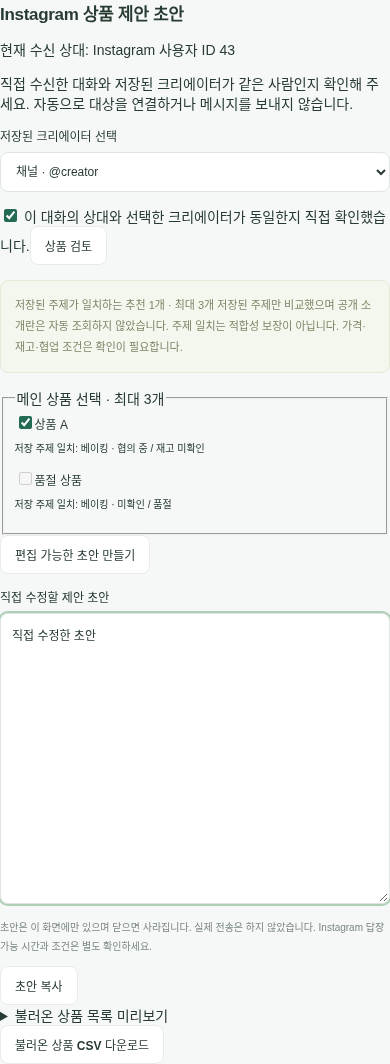
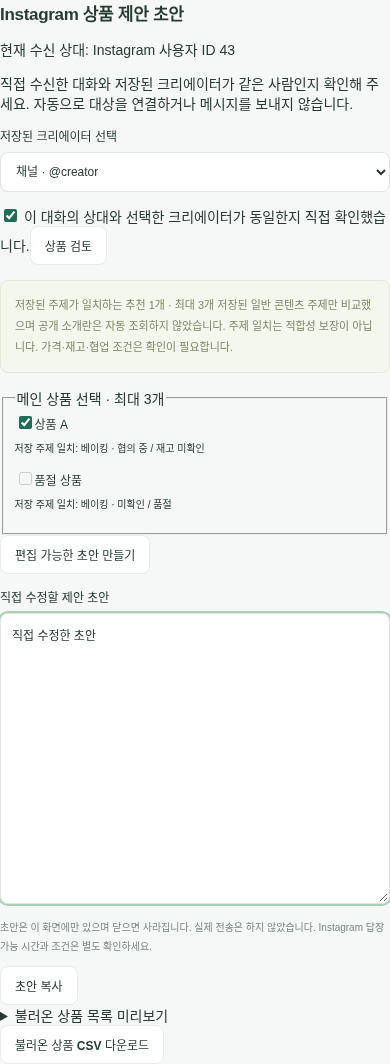
Limit prototype ranking to general public topics

Changed region(s): [[0.0308, 0.2791, 0.9538, 0.3412]]

diff --git a/public/workspace/app.js b/public/workspace/app.js
@@ -46,8 +46,8 @@ ${T}`}var q=class extends Error{constructor({message:e,code:r,cause:s,name:a}){v
 ${N.body}
 
 \uCCA8\uBD80: ${N.attachments.map(a=>a.name+" ("+a.size+" bytes)").join(", ")||"\uC5C6\uC74C"}`)}</div><p class="fine">15\uBD84 \uB0B4 \uC2B9\uC778\uD574\uC57C \uD569\uB2C8\uB2E4. \uC218\uC815\uD558\uBA74 \uB2E4\uC2DC \uBBF8\uB9AC\uBCF4\uAE30\uB97C \uB9CC\uB4DC\uC138\uC694. \uC608\uC57D \uBA54\uC77C\uC740 \uC608\uC57D \uC2DC\uAC01 \uC774\uD6C4 \uC2E4\uD589\uAE30\uAC00 \uD655\uC778\uD560 \uB54C \uCC98\uB9AC\uB429\uB2C8\uB2E4(\uCD5C\uB300 \uC57D 5\uBD84 \uAC04\uACA9).</p><label class="field"><span><input id="send-approved" type="checkbox"> \uC704 \uC218\uC2E0\uC790\xB7\uB0B4\uC6A9\xB7\uC870\uAC74 \uBC84\uC804\xB7\uCCA8\uBD80\uD30C\uC77C\uC744 \uD655\uC778\uD558\uACE0 \uC2B9\uC778\uD569\uB2C8\uB2E4.</span></label>${N.channel==="manual_dm"?'<label class="field"><span><input id="manually-sent" type="checkbox"> Instagram\uC5D0\uC11C \uC9C1\uC811 \uBC1C\uC1A1\uC744 \uC644\uB8CC\uD588\uC2B5\uB2C8\uB2E4.</span></label>':""}<div class="actions">${N.channel==="email"?`<label class="field">\uC608\uC57D \uC2DC\uAC04 (\uAE30\uAE30 \uC2DC\uAC04 \uAE30\uC900)<input id="schedule-at" type="datetime-local"></label>${k("\uC2B9\uC778\uD55C \uB0B4\uC6A9 \uC608\uC57D \uC790\uB3D9 \uBC1C\uC1A1","schedule")}`:""}${k("\uBB38\uAD6C \uBCF5\uC0AC","copy-preview")}${k(N.channel==="manual_dm"?"\uC218\uB3D9 \uBC1C\uC1A1 \uACB0\uACFC \uAE30\uB85D":"\uC2B9\uC778\uD55C \uB0B4\uC6A9 \uC2E4\uC81C \uBC1C\uC1A1","dispatch","",!0)}</div><div class="notice">${N.channel==="email"&&!he.gmail.enabled?"\uD604\uC7AC \uC2E4\uC81C \uBA54\uC77C \uBC1C\uC1A1\uC740 \uC11C\uBC84\uC5D0\uC11C \uAEBC\uC838 \uC788\uC2B5\uB2C8\uB2E4. ":""}\uC811\uC218\xB7\uC804\uB2EC\xB7\uC5F4\uB78C \uC0C1\uD0DC\uB97C \uD63C\uB3D9\uD558\uC9C0 \uC54A\uC2B5\uB2C8\uB2E4. \uC790\uB3D9 \uC7AC\uC2DC\uB3C4\uB294 \uD558\uC9C0 \uC54A\uC2B5\uB2C8\uB2E4.</div>`,m("#preview-area").scrollIntoView({block:"nearest",behavior:"smooth"})}var X=null,me=!1;function cu(t){try{let e=new URL(String(t||""));return e.protocol==="https:"&&!e.username&&!e.password?e.toString():""}catch{return""}}function uu(t){let e=String(t??"").replace(/\r\n?/g,`
-`);return/^[\s]*[=+\-@\t\r]/.test(e)&&(e="'"+e),'"'+e.replace(/"/g,'""')+'"'}function du(t){return t.soldOut===!0||t.availability==="sold_out"||t.stock===0?"\uD488\uC808":/품절/.test(String(t.sourceNote||"")+" "+String(t.note||""))?"\uD488\uC808 \uAD00\uB828 \uAE30\uB85D \xB7 \uC7AC\uD655\uC778 \uD544\uC694":typeof t.stock=="number"&&Number.isFinite(t.stock)&&t.stock>0?"\uAE30\uB85D\uC0C1 \uC7AC\uACE0 \uC788\uC74C \xB7 \uC7AC\uD655\uC778":"\uC7AC\uACE0 \uBBF8\uD655\uC778"}function hu(t){let e=t.priceProvisional===!0||/(임시|미확정|협의)/.test(String(t.priceStatus||""))||/(임시.{0,12}(공구가|가격)|(공구가|가격).{0,12}임시|소비자가.{0,12}(대체|임시))/.test(String(t.sourceNote||"")+" "+String(t.note||""));return t.state==="\uD655\uC815"&&(t.priceConfirmed===!0||t.priceStatus==="confirmed")&&!e&&typeof t.price=="number"&&Number.isFinite(t.price)&&t.price>=0?String(t.price)+"\uC6D0 \xB7 \uC800\uC7A5\uB41C \uD655\uC815 \uC870\uAC74, \uC7AC\uD655\uC778":"\uACF5\uAD6C\uAC00 \uBBF8\uD655\uC778"}function pu(t){return/(암|당뇨|질환|환자|진단|투병|치료|복용|임신|불임|장애|정신건강)/i.test(t)}function fu(t,e){let r=new Set((Array.isArray(e?.topics)?e.topics:[]).filter(a=>typeof a=="string").map(a=>a.trim().toLocaleLowerCase()).filter(a=>a.length>=2&&a.length<=60&&!pu(a))),s=new Map;for(let a of Array.isArray(t)?t:[]){if(!a||typeof a.id!="string"||!a.id||typeof a.name!="string"||!a.name.trim())continue;let n=String(a.productName||a.name).trim();if(!n)continue;let i=JSON.stringify([String(a.brand||""),n]),o=[...new Set((Array.isArray(a.topics)?a.topics:[]).filter(d=>typeof d=="string").map(d=>d.trim()).filter(d=>r.has(d.toLocaleLowerCase())))],l={id:a.id,name:a.name,product:n,brand:String(a.brand||""),category:typeof a.category=="string"&&a.category?a.category:"\uBBF8\uD655\uC778",state:["\uD611\uC758 \uC911","\uD655\uC815"].includes(a.state)?a.state:"\uBBF8\uD655\uC778",retail:typeof a.retail=="number"&&Number.isFinite(a.retail)&&a.retail>=0?String(a.retail)+"\uC6D0":"\uBBF8\uD655\uC778",price:hu(a),stock:du(a),options:[...a.productName&&a.name!==a.productName?[a.name]:[],...(Array.isArray(a.options)?a.options:[]).map(d=>typeof d?.name=="string"?d.name:"")].filter(Boolean).join(" / ")||"\uC635\uC158 \uD655\uC778 \uD544\uC694",link:cu(a.productUrl),reason:o.length?"\uC800\uC7A5 \uC8FC\uC81C \uC77C\uCE58: "+o.join(", "):"\uC8FC\uC81C \uC77C\uCE58 \uADFC\uAC70 \uC5C6\uC74C \xB7 \uC9C1\uC811 \uAC80\uD1A0",score:o.length};s.has(i)||s.set(i,{id:a.id,product:n,items:[],score:0});let c=s.get(i);c.items.push(l),c.score=Math.max(c.score,l.score)}return[...s.values()].map(a=>{let n=a.items.filter(i=>!i.stock.startsWith("\uD488\uC808"));return{...a,available:n.length>0,score:Math.max(0,...n.map(i=>i.score))}}).sort((a,n)=>n.score-a.score||a.product.localeCompare(n.product,"ko"))}function mu(t){return"\uFEFF"+[["\uC0C1\uD488\uBA85","\uBD84\uB958","\uCD94\uCC9C \uADFC\uAC70","\uACF5\uAC1C \uC18C\uBE44\uC790\uAC00","\uD655\uC815 \uACF5\uAD6C\uAC00 \uB610\uB294 \uD611\uC758 \uC0C1\uD0DC","\uC7AC\uACE0 \uC0C1\uD0DC","\uC635\uC158 \uC0C1\uD0DC","\uB4F1\uB85D \uC81C\uD488 \uB9C1\uD06C"],...t.flatMap(s=>s.items.map(a=>[a.product,a.category,a.reason,a.retail,a.state+" \xB7 "+a.price,a.stock,a.options,a.link]))].map(s=>s.map(uu).join(",")).join(`\r
-`)}function co(){return!!X&&X.owner===C&&location.hash==="#inbox"&&X.threadId===oe&&!!Fe.find(t=>t.id===oe&&t.instagramOfficial&&(t.messages||[]).some(fs))}function Ca(){if(!co()||!X.creator)return!1;let t=m("#instagram-prototype-creator");if(!t)return!1;let e=new FormData(t);return e.has("verified")&&e.get("creator")===X.creator.id}function gu(){if(!Ca()||!X.draftSelection)return!1;let t=m("#instagram-prototype-draft");return t?JSON.stringify(new FormData(t).getAll("product").map(String).sort())===X.draftSelection:!1}function yu(){if(I)return _("\uD3B8\uC9D1 \uB0B4\uC6A9\uC744 \uC800\uC7A5\uD558\uAC70\uB098 \uCDE8\uC18C\uD55C \uB4A4 \uCD08\uC548\uC744 \uC900\uBE44\uD558\uC138\uC694.");let t=Fe.find(r=>r.id===oe&&r.instagramOfficial&&(r.messages||[]).some(fs));if(!t)return _("\uBA3C\uC800 \uC2E4\uC81C \uC218\uC2E0 Instagram \uB300\uD654\uB97C \uC120\uD0DD\uD558\uC138\uC694.");let e=E.candidates.filter(r=>r.kind==="\uD06C\uB9AC\uC5D0\uC774\uD130");X={owner:C,threadId:t.id,creator:null,groups:[]},me=!1,K("<h2>Instagram \uC0C1\uD488 \uC81C\uC548 \uCD08\uC548</h2><p>\uD604\uC7AC \uC218\uC2E0 \uC0C1\uB300: "+u(ms(t))+'</p><p>\uC9C1\uC811 \uC218\uC2E0\uD55C \uB300\uD654\uC640 \uC800\uC7A5\uB41C \uD06C\uB9AC\uC5D0\uC774\uD130\uAC00 \uAC19\uC740 \uC0AC\uB78C\uC778\uC9C0 \uD655\uC778\uD574 \uC8FC\uC138\uC694. \uC790\uB3D9\uC73C\uB85C \uB300\uC0C1\uC744 \uC5F0\uACB0\uD558\uAC70\uB098 \uBA54\uC2DC\uC9C0\uB97C \uBCF4\uB0B4\uC9C0 \uC54A\uC2B5\uB2C8\uB2E4.</p><form id="instagram-prototype-creator"><label class="field">\uC800\uC7A5\uB41C \uD06C\uB9AC\uC5D0\uC774\uD130 \uC120\uD0DD<select name="creator" required><option value="">\uC9C1\uC811 \uC120\uD0DD</option>'+e.map(r=>'<option value="'+u(r.id)+'">'+u(r.name||"\uC774\uB984 \uBBF8\uD655\uC778")+(r.handle?" \xB7 @"+u(r.handle):"")+"</option>").join("")+'</select></label><label><input type="checkbox" name="verified" required> \uC774 \uB300\uD654\uC758 \uC0C1\uB300\uC640 \uC120\uD0DD\uD55C \uD06C\uB9AC\uC5D0\uC774\uD130\uAC00 \uB3D9\uC77C\uD55C\uC9C0 \uC9C1\uC811 \uD655\uC778\uD588\uC2B5\uB2C8\uB2E4.</label><button type="submit">\uC0C1\uD488 \uAC80\uD1A0</button></form>'+(e.length?"":'<p class="notice">\uC120\uD0DD\uD560 \uC800\uC7A5 \uD06C\uB9AC\uC5D0\uC774\uD130\uAC00 \uC5C6\uC2B5\uB2C8\uB2E4. \uD655\uC778\uB41C \uD06C\uB9AC\uC5D0\uC774\uD130\uB97C \uBA3C\uC800 \uB4F1\uB85D\uD558\uC138\uC694.</p>')+'<div id="instagram-prototype-result"></div>')}function vu(t){if(!co())throw Error("\uD604\uC7AC \uC218\uC2E0 \uB300\uD654\uB97C \uB2E4\uC2DC \uD655\uC778\uD558\uC138\uC694.");if(me&&!window.confirm("\uC791\uC131 \uC911\uC778 \uCD08\uC548\uC744 \uBC14\uAFB8\uACE0 \uC0C1\uD488\uC744 \uB2E4\uC2DC \uAC80\uD1A0\uD560\uAE4C\uC694?"))return;me=!1;let e=new FormData(t);if(!e.has("verified"))throw Error("\uB300\uD654 \uC0C1\uB300\uC640 \uD06C\uB9AC\uC5D0\uC774\uD130\uAC00 \uAC19\uC740\uC9C0 \uC9C1\uC811 \uD655\uC778\uD558\uC138\uC694.");let r=E.candidates.find(o=>o.id===e.get("creator")&&o.kind==="\uD06C\uB9AC\uC5D0\uC774\uD130");if(!r)throw Error("\uC800\uC7A5\uB41C \uD06C\uB9AC\uC5D0\uC774\uD130\uB97C \uC120\uD0DD\uD558\uC138\uC694.");let s=fu(E.deals,r),a=s.filter(o=>o.available&&o.score>0).slice(0,3),n=new Set(a.map(o=>o.id));X.creator=r,X.groups=s,X.draftSelection=null;let i=a.length?"\uC800\uC7A5\uB41C \uC8FC\uC81C\uAC00 \uC77C\uCE58\uD558\uB294 \uCD94\uCC9C "+a.length+"\uAC1C \xB7 \uCD5C\uB300 3\uAC1C":"\uC77C\uCE58 \uADFC\uAC70\uAC00 \uC5C6\uC5B4 \uCD94\uCC9C\uC744 \uB9CC\uB4E4\uC9C0 \uC54A\uC558\uC2B5\uB2C8\uB2E4. \uC544\uB798 \uAC80\uD1A0 \uD6C4\uBCF4\uB97C \uC9C1\uC811 \uACE0\uB974\uC138\uC694.";m("#instagram-prototype-result").innerHTML='<p class="notice">'+u(i)+' \uC800\uC7A5\uB41C \uC8FC\uC81C\uB9CC \uBE44\uAD50\uD588\uC73C\uBA70 \uACF5\uAC1C \uC18C\uAC1C\uB780\uC740 \uC790\uB3D9 \uC870\uD68C\uD558\uC9C0 \uC54A\uC558\uC2B5\uB2C8\uB2E4. \uC8FC\uC81C \uC77C\uCE58\uB294 \uC801\uD569\uC131 \uBCF4\uC7A5\uC774 \uC544\uB2D9\uB2C8\uB2E4. \uAC00\uACA9\xB7\uC7AC\uACE0\xB7\uD611\uC5C5 \uC870\uAC74\uC740 \uD655\uC778\uC774 \uD544\uC694\uD569\uB2C8\uB2E4.</p><form id="instagram-prototype-draft"><fieldset><legend>\uBA54\uC778 \uC0C1\uD488 \uC120\uD0DD \xB7 \uCD5C\uB300 3\uAC1C</legend>'+s.map(o=>{let l=o.items.find(d=>!d.stock.startsWith("\uD488\uC808")&&d.score===o.score)||o.items[0],c=!o.available;return'<label class="field"><span><input type="checkbox" name="product" value="'+u(o.id)+'" '+(n.has(o.id)?"checked ":"")+(c?"disabled ":"")+">"+u(o.product)+"</span><small>"+u(l.reason)+" \xB7 "+u(o.items.map(d=>d.state+" / "+d.stock).join(" ; "))+"</small></label>"}).join("")+'</fieldset><button type="submit">\uD3B8\uC9D1 \uAC00\uB2A5\uD55C \uCD08\uC548 \uB9CC\uB4E4\uAE30</button></form><div id="instagram-prototype-draft-output"></div><details><summary>\uBD88\uB7EC\uC628 \uC0C1\uD488 \uBAA9\uB85D \uBBF8\uB9AC\uBCF4\uAE30</summary><p>\uD604\uC7AC \uD654\uBA74\uC5D0 \uBD88\uB7EC\uC628 \uC800\uC7A5 \uC0C1\uD488\uB9CC \uD3EC\uD568\uD558\uBA70 \uC77C\uBD80 \uC0C1\uD488\uC774 \uBE60\uC9C8 \uC218 \uC788\uC2B5\uB2C8\uB2E4. \uC870\uAC74\uC740 \uB2E4\uC2DC \uD655\uC778\uD574\uC57C \uD558\uBA70 \uC678\uBD80 \uC2DC\uD2B8\uB294 \uC0DD\uC131\uD558\uC9C0 \uC54A\uC2B5\uB2C8\uB2E4.</p><div class="table-wrap"><table><thead><tr><th>\uC0C1\uD488</th><th>\uBD84\uB958</th><th>\uADFC\uAC70</th><th>\uC18C\uBE44\uC790\uAC00</th><th>\uACF5\uAD6C \uC870\uAC74</th><th>\uC7AC\uACE0\xB7\uC635\uC158</th><th>\uB4F1\uB85D \uB9C1\uD06C</th></tr></thead><tbody>'+s.flatMap(o=>o.items.map(l=>"<tr><td>"+u(l.product)+"</td><td>"+u(l.category)+"</td><td>"+u(l.reason)+"</td><td>"+u(l.retail)+"</td><td>"+u(l.state+" \xB7 "+l.price)+"</td><td>"+u(l.stock+" \xB7 "+l.options)+"</td><td>"+(l.link?'<a href="'+u(l.link)+'" target="_blank" rel="noopener noreferrer">\uC81C\uD488 \uB9C1\uD06C \u2197</a>':"\uBBF8\uD655\uC778")+"</td></tr>")).join("")+'</tbody></table></div></details><button type="button" data-action="instagram-prototype-csv">\uBD88\uB7EC\uC628 \uC0C1\uD488 CSV \uB2E4\uC6B4\uB85C\uB4DC</button>'}function bu(t){if(!Ca()||!X.creator)throw Error("\uB300\uD654\uC640 \uD06C\uB9AC\uC5D0\uC774\uD130\uB97C \uB2E4\uC2DC \uD655\uC778\uD558\uC138\uC694.");if(me&&!window.confirm("\uC791\uC131 \uC911\uC778 \uCD08\uC548\uC744 \uC0C8\uB85C \uB9CC\uB4E4\uAE4C\uC694?"))return;let e=new FormData(t).getAll("product");if(!e.length||e.length>3||new Set(e).size!==e.length)throw Error("\uD488\uC808\uC774 \uC544\uB2CC \uC0C1\uD488\uC744 1~3\uAC1C \uC120\uD0DD\uD558\uC138\uC694.");let r=e.map(n=>X.groups.find(i=>i.id===n&&i.available));if(r.some(n=>!n))throw Error("\uC120\uD0DD\uD55C \uC0C1\uD488 \uC0C1\uD0DC\uB97C \uB2E4\uC2DC \uD655\uC778\uD558\uC138\uC694.");me=!1,X.draftSelection=JSON.stringify(e.map(String).sort());let s=String(X.creator.name||"\uD06C\uB9AC\uC5D0\uC774\uD130").trim(),a="\uC548\uB155\uD558\uC138\uC694, "+s+`\uB2D8.
+`);return/^[\s]*[=+\-@\t\r]/.test(e)&&(e="'"+e),'"'+e.replace(/"/g,'""')+'"'}function du(t){return t.soldOut===!0||t.availability==="sold_out"||t.stock===0?"\uD488\uC808":/품절/.test(String(t.sourceNote||"")+" "+String(t.note||""))?"\uD488\uC808 \uAD00\uB828 \uAE30\uB85D \xB7 \uC7AC\uD655\uC778 \uD544\uC694":typeof t.stock=="number"&&Number.isFinite(t.stock)&&t.stock>0?"\uAE30\uB85D\uC0C1 \uC7AC\uACE0 \uC788\uC74C \xB7 \uC7AC\uD655\uC778":"\uC7AC\uACE0 \uBBF8\uD655\uC778"}function hu(t){let e=t.priceProvisional===!0||/(임시|미확정|협의)/.test(String(t.priceStatus||""))||/(임시.{0,12}(공구가|가격)|(공구가|가격).{0,12}임시|소비자가.{0,12}(대체|임시))/.test(String(t.sourceNote||"")+" "+String(t.note||""));return t.state==="\uD655\uC815"&&(t.priceConfirmed===!0||t.priceStatus==="confirmed")&&!e&&typeof t.price=="number"&&Number.isFinite(t.price)&&t.price>=0?String(t.price)+"\uC6D0 \xB7 \uC800\uC7A5\uB41C \uD655\uC815 \uC870\uAC74, \uC7AC\uD655\uC778":"\uACF5\uAD6C\uAC00 \uBBF8\uD655\uC778"}function pu(t){return!new Set(["\uBCA0\uC774\uD0B9","\uC694\uB9AC","\uD478\uB4DC","\uCEE4\uD53C","\uC2DD\uC74C\uB8CC","\uCE74\uD398","\uB514\uC800\uD2B8","\uB77C\uC774\uD504\uC2A4\uD0C0\uC77C","\uC77C\uC0C1","\uD328\uC158","\uBDF0\uD2F0","\uC6B4\uB3D9","\uD53C\uD2B8\uB2C8\uC2A4","\uC6F0\uB2C8\uC2A4","\uB9AC\uBE59","\uC778\uD14C\uB9AC\uC5B4","\uC721\uC544","\uC5EC\uD589","\uBC18\uB824\uB3D9\uBB3C","\uCEA0\uD551","\uC544\uC6C3\uB3C4\uC5B4","\uC0AC\uC9C4","\uB3C5\uC11C","\uC790\uAE30\uACC4\uBC1C","\uCDE8\uBBF8","\uD648\uCE74\uD398"]).has(t)}function fu(t,e){let r=new Set((Array.isArray(e?.topics)?e.topics:[]).filter(a=>typeof a=="string").map(a=>a.trim().toLocaleLowerCase()).filter(a=>a.length>=2&&a.length<=60&&!pu(a))),s=new Map;for(let a of Array.isArray(t)?t:[]){if(!a||typeof a.id!="string"||!a.id||typeof a.name!="string"||!a.name.trim())continue;let n=String(a.productName||a.name).trim();if(!n)continue;let i=JSON.stringify([String(a.brand||""),n]),o=[...new Set((Array.isArray(a.topics)?a.topics:[]).filter(d=>typeof d=="string").map(d=>d.trim()).filter(d=>r.has(d.toLocaleLowerCase())))],l={id:a.id,name:a.name,product:n,brand:String(a.brand||""),category:typeof a.category=="string"&&a.category?a.category:"\uBBF8\uD655\uC778",state:["\uD611\uC758 \uC911","\uD655\uC815"].includes(a.state)?a.state:"\uBBF8\uD655\uC778",retail:typeof a.retail=="number"&&Number.isFinite(a.retail)&&a.retail>=0?String(a.retail)+"\uC6D0":"\uBBF8\uD655\uC778",price:hu(a),stock:du(a),options:[...a.productName&&a.name!==a.productName?[a.name]:[],...(Array.isArray(a.options)?a.options:[]).map(d=>typeof d?.name=="string"?d.name:"")].filter(Boolean).join(" / ")||"\uC635\uC158 \uD655\uC778 \uD544\uC694",link:cu(a.productUrl),reason:o.length?"\uC800\uC7A5 \uC8FC\uC81C \uC77C\uCE58: "+o.join(", "):"\uC8FC\uC81C \uC77C\uCE58 \uADFC\uAC70 \uC5C6\uC74C \xB7 \uC9C1\uC811 \uAC80\uD1A0",score:o.length};s.has(i)||s.set(i,{id:a.id,product:n,items:[],score:0});let c=s.get(i);c.items.push(l),c.score=Math.max(c.score,l.score)}return[...s.values()].map(a=>{let n=a.items.filter(i=>!i.stock.startsWith("\uD488\uC808"));return{...a,available:n.length>0,score:Math.max(0,...n.map(i=>i.score))}}).sort((a,n)=>n.score-a.score||a.product.localeCompare(n.product,"ko"))}function mu(t){return"\uFEFF"+[["\uC0C1\uD488\uBA85","\uBD84\uB958","\uCD94\uCC9C \uADFC\uAC70","\uACF5\uAC1C \uC18C\uBE44\uC790\uAC00","\uD655\uC815 \uACF5\uAD6C\uAC00 \uB610\uB294 \uD611\uC758 \uC0C1\uD0DC","\uC7AC\uACE0 \uC0C1\uD0DC","\uC635\uC158 \uC0C1\uD0DC","\uB4F1\uB85D \uC81C\uD488 \uB9C1\uD06C"],...t.flatMap(s=>s.items.map(a=>[a.product,a.category,a.reason,a.retail,a.state+" \xB7 "+a.price,a.stock,a.options,a.link]))].map(s=>s.map(uu).join(",")).join(`\r
+`)}function co(){return!!X&&X.owner===C&&location.hash==="#inbox"&&X.threadId===oe&&!!Fe.find(t=>t.id===oe&&t.instagramOfficial&&(t.messages||[]).some(fs))}function Ca(){if(!co()||!X.creator)return!1;let t=m("#instagram-prototype-creator");if(!t)return!1;let e=new FormData(t);return e.has("verified")&&e.get("creator")===X.creator.id}function gu(){if(!Ca()||!X.draftSelection)return!1;let t=m("#instagram-prototype-draft");return t?JSON.stringify(new FormData(t).getAll("product").map(String).sort())===X.draftSelection:!1}function yu(){if(I)return _("\uD3B8\uC9D1 \uB0B4\uC6A9\uC744 \uC800\uC7A5\uD558\uAC70\uB098 \uCDE8\uC18C\uD55C \uB4A4 \uCD08\uC548\uC744 \uC900\uBE44\uD558\uC138\uC694.");let t=Fe.find(r=>r.id===oe&&r.instagramOfficial&&(r.messages||[]).some(fs));if(!t)return _("\uBA3C\uC800 \uC2E4\uC81C \uC218\uC2E0 Instagram \uB300\uD654\uB97C \uC120\uD0DD\uD558\uC138\uC694.");let e=E.candidates.filter(r=>r.kind==="\uD06C\uB9AC\uC5D0\uC774\uD130");X={owner:C,threadId:t.id,creator:null,groups:[]},me=!1,K("<h2>Instagram \uC0C1\uD488 \uC81C\uC548 \uCD08\uC548</h2><p>\uD604\uC7AC \uC218\uC2E0 \uC0C1\uB300: "+u(ms(t))+'</p><p>\uC9C1\uC811 \uC218\uC2E0\uD55C \uB300\uD654\uC640 \uC800\uC7A5\uB41C \uD06C\uB9AC\uC5D0\uC774\uD130\uAC00 \uAC19\uC740 \uC0AC\uB78C\uC778\uC9C0 \uD655\uC778\uD574 \uC8FC\uC138\uC694. \uC790\uB3D9\uC73C\uB85C \uB300\uC0C1\uC744 \uC5F0\uACB0\uD558\uAC70\uB098 \uBA54\uC2DC\uC9C0\uB97C \uBCF4\uB0B4\uC9C0 \uC54A\uC2B5\uB2C8\uB2E4.</p><form id="instagram-prototype-creator"><label class="field">\uC800\uC7A5\uB41C \uD06C\uB9AC\uC5D0\uC774\uD130 \uC120\uD0DD<select name="creator" required><option value="">\uC9C1\uC811 \uC120\uD0DD</option>'+e.map(r=>'<option value="'+u(r.id)+'">'+u(r.name||"\uC774\uB984 \uBBF8\uD655\uC778")+(r.handle?" \xB7 @"+u(r.handle):"")+"</option>").join("")+'</select></label><label><input type="checkbox" name="verified" required> \uC774 \uB300\uD654\uC758 \uC0C1\uB300\uC640 \uC120\uD0DD\uD55C \uD06C\uB9AC\uC5D0\uC774\uD130\uAC00 \uB3D9\uC77C\uD55C\uC9C0 \uC9C1\uC811 \uD655\uC778\uD588\uC2B5\uB2C8\uB2E4.</label><button type="submit">\uC0C1\uD488 \uAC80\uD1A0</button></form>'+(e.length?"":'<p class="notice">\uC120\uD0DD\uD560 \uC800\uC7A5 \uD06C\uB9AC\uC5D0\uC774\uD130\uAC00 \uC5C6\uC2B5\uB2C8\uB2E4. \uD655\uC778\uB41C \uD06C\uB9AC\uC5D0\uC774\uD130\uB97C \uBA3C\uC800 \uB4F1\uB85D\uD558\uC138\uC694.</p>')+'<div id="instagram-prototype-result"></div>')}function vu(t){if(!co())throw Error("\uD604\uC7AC \uC218\uC2E0 \uB300\uD654\uB97C \uB2E4\uC2DC \uD655\uC778\uD558\uC138\uC694.");if(me&&!window.confirm("\uC791\uC131 \uC911\uC778 \uCD08\uC548\uC744 \uBC14\uAFB8\uACE0 \uC0C1\uD488\uC744 \uB2E4\uC2DC \uAC80\uD1A0\uD560\uAE4C\uC694?"))return;me=!1;let e=new FormData(t);if(!e.has("verified"))throw Error("\uB300\uD654 \uC0C1\uB300\uC640 \uD06C\uB9AC\uC5D0\uC774\uD130\uAC00 \uAC19\uC740\uC9C0 \uC9C1\uC811 \uD655\uC778\uD558\uC138\uC694.");let r=E.candidates.find(o=>o.id===e.get("creator")&&o.kind==="\uD06C\uB9AC\uC5D0\uC774\uD130");if(!r)throw Error("\uC800\uC7A5\uB41C \uD06C\uB9AC\uC5D0\uC774\uD130\uB97C \uC120\uD0DD\uD558\uC138\uC694.");let s=fu(E.deals,r),a=s.filter(o=>o.available&&o.score>0).slice(0,3),n=new Set(a.map(o=>o.id));X.creator=r,X.groups=s,X.draftSelection=null;let i=a.length?"\uC800\uC7A5\uB41C \uC8FC\uC81C\uAC00 \uC77C\uCE58\uD558\uB294 \uCD94\uCC9C "+a.length+"\uAC1C \xB7 \uCD5C\uB300 3\uAC1C":"\uC77C\uCE58 \uADFC\uAC70\uAC00 \uC5C6\uC5B4 \uCD94\uCC9C\uC744 \uB9CC\uB4E4\uC9C0 \uC54A\uC558\uC2B5\uB2C8\uB2E4. \uC544\uB798 \uAC80\uD1A0 \uD6C4\uBCF4\uB97C \uC9C1\uC811 \uACE0\uB974\uC138\uC694.";m("#instagram-prototype-result").innerHTML='<p class="notice">'+u(i)+' \uC800\uC7A5\uB41C \uC77C\uBC18 \uCF58\uD150\uCE20 \uC8FC\uC81C\uB9CC \uBE44\uAD50\uD588\uC73C\uBA70 \uACF5\uAC1C \uC18C\uAC1C\uB780\uC740 \uC790\uB3D9 \uC870\uD68C\uD558\uC9C0 \uC54A\uC558\uC2B5\uB2C8\uB2E4. \uC8FC\uC81C \uC77C\uCE58\uB294 \uC801\uD569\uC131 \uBCF4\uC7A5\uC774 \uC544\uB2D9\uB2C8\uB2E4. \uAC00\uACA9\xB7\uC7AC\uACE0\xB7\uD611\uC5C5 \uC870\uAC74\uC740 \uD655\uC778\uC774 \uD544\uC694\uD569\uB2C8\uB2E4.</p><form id="instagram-prototype-draft"><fieldset><legend>\uBA54\uC778 \uC0C1\uD488 \uC120\uD0DD \xB7 \uCD5C\uB300 3\uAC1C</legend>'+s.map(o=>{let l=o.items.find(d=>!d.stock.startsWith("\uD488\uC808")&&d.score===o.score)||o.items[0],c=!o.available;return'<label class="field"><span><input type="checkbox" name="product" value="'+u(o.id)+'" '+(n.has(o.id)?"checked ":"")+(c?"disabled ":"")+">"+u(o.product)+"</span><small>"+u(l.reason)+" \xB7 "+u(o.items.map(d=>d.state+" / "+d.stock).join(" ; "))+"</small></label>"}).join("")+'</fieldset><button type="submit">\uD3B8\uC9D1 \uAC00\uB2A5\uD55C \uCD08\uC548 \uB9CC\uB4E4\uAE30</button></form><div id="instagram-prototype-draft-output"></div><details><summary>\uBD88\uB7EC\uC628 \uC0C1\uD488 \uBAA9\uB85D \uBBF8\uB9AC\uBCF4\uAE30</summary><p>\uD604\uC7AC \uD654\uBA74\uC5D0 \uBD88\uB7EC\uC628 \uC800\uC7A5 \uC0C1\uD488\uB9CC \uD3EC\uD568\uD558\uBA70 \uC77C\uBD80 \uC0C1\uD488\uC774 \uBE60\uC9C8 \uC218 \uC788\uC2B5\uB2C8\uB2E4. \uC870\uAC74\uC740 \uB2E4\uC2DC \uD655\uC778\uD574\uC57C \uD558\uBA70 \uC678\uBD80 \uC2DC\uD2B8\uB294 \uC0DD\uC131\uD558\uC9C0 \uC54A\uC2B5\uB2C8\uB2E4.</p><div class="table-wrap"><table><thead><tr><th>\uC0C1\uD488</th><th>\uBD84\uB958</th><th>\uADFC\uAC70</th><th>\uC18C\uBE44\uC790\uAC00</th><th>\uACF5\uAD6C \uC870\uAC74</th><th>\uC7AC\uACE0\xB7\uC635\uC158</th><th>\uB4F1\uB85D \uB9C1\uD06C</th></tr></thead><tbody>'+s.flatMap(o=>o.items.map(l=>"<tr><td>"+u(l.product)+"</td><td>"+u(l.category)+"</td><td>"+u(l.reason)+"</td><td>"+u(l.retail)+"</td><td>"+u(l.state+" \xB7 "+l.price)+"</td><td>"+u(l.stock+" \xB7 "+l.options)+"</td><td>"+(l.link?'<a href="'+u(l.link)+'" target="_blank" rel="noopener noreferrer">\uC81C\uD488 \uB9C1\uD06C \u2197</a>':"\uBBF8\uD655\uC778")+"</td></tr>")).join("")+'</tbody></table></div></details><button type="button" data-action="instagram-prototype-csv">\uBD88\uB7EC\uC628 \uC0C1\uD488 CSV \uB2E4\uC6B4\uB85C\uB4DC</button>'}function bu(t){if(!Ca()||!X.creator)throw Error("\uB300\uD654\uC640 \uD06C\uB9AC\uC5D0\uC774\uD130\uB97C \uB2E4\uC2DC \uD655\uC778\uD558\uC138\uC694.");if(me&&!window.confirm("\uC791\uC131 \uC911\uC778 \uCD08\uC548\uC744 \uC0C8\uB85C \uB9CC\uB4E4\uAE4C\uC694?"))return;let e=new FormData(t).getAll("product");if(!e.length||e.length>3||new Set(e).size!==e.length)throw Error("\uD488\uC808\uC774 \uC544\uB2CC \uC0C1\uD488\uC744 1~3\uAC1C \uC120\uD0DD\uD558\uC138\uC694.");let r=e.map(n=>X.groups.find(i=>i.id===n&&i.available));if(r.some(n=>!n))throw Error("\uC120\uD0DD\uD55C \uC0C1\uD488 \uC0C1\uD0DC\uB97C \uB2E4\uC2DC \uD655\uC778\uD558\uC138\uC694.");me=!1,X.draftSelection=JSON.stringify(e.map(String).sort());let s=String(X.creator.name||"\uD06C\uB9AC\uC5D0\uC774\uD130").trim(),a="\uC548\uB155\uD558\uC138\uC694, "+s+`\uB2D8.
 
 \uACF5\uB3D9\uAD6C\uB9E4 \uD611\uC5C5\uC744 \uC81C\uC548\uB4DC\uB9AC\uACE0 \uC2F6\uC5B4 \uC5F0\uB77D\uB4DC\uB9BD\uB2C8\uB2E4. \uC6B0\uC120 \uC544\uB798 \uC0C1\uD488\uC744 \uAC80\uD1A0\uD574 \uC8FC\uC2DC\uBA74 \uC88B\uACA0\uC2B5\uB2C8\uB2E4.
 

diff --git a/private/ui/app.js b/private/ui/app.js
@@ -631,14 +631,14 @@ function prototypeSafeLink(value){try{const u=new URL(String(value||''));return 
 function prototypeCsvCell(value){let s=String(value??'').replace(/\r\n?/g,'\n');if(/^[\s]*[=+\-@\t\r]/.test(s))s="'"+s;return '"'+s.replace(/"/g,'""')+'"';}
 function prototypeDealStock(d){if(d.soldOut===true||d.availability==='sold_out'||d.stock===0)return '품절';if(/품절/.test(String(d.sourceNote||'')+' '+String(d.note||'')))return '품절 관련 기록 · 재확인 필요';if(typeof d.stock==='number'&&Number.isFinite(d.stock)&&d.stock>0)return '기록상 재고 있음 · 재확인';return '재고 미확인';}
 function prototypePrice(d){const temp=d.priceProvisional===true||/(임시|미확정|협의)/.test(String(d.priceStatus||''))||/(임시.{0,12}(공구가|가격)|(공구가|가격).{0,12}임시|소비자가.{0,12}(대체|임시))/.test(String(d.sourceNote||'')+' '+String(d.note||''));return d.state==='확정'&&(d.priceConfirmed===true||d.priceStatus==='confirmed')&&!temp&&typeof d.price==='number'&&Number.isFinite(d.price)&&d.price>=0?String(d.price)+'원 · 저장된 확정 조건, 재확인':'공구가 미확인';}
-function prototypeSensitiveTopic(value){return /(암|당뇨|질환|환자|진단|투병|치료|복용|임신|불임|장애|정신건강)/i.test(value);}
+function prototypeSensitiveTopic(value){return !new Set(['베이킹','요리','푸드','커피','식음료','카페','디저트','라이프스타일','일상','패션','뷰티','운동','피트니스','웰니스','리빙','인테리어','육아','여행','반려동물','캠핑','아웃도어','사진','독서','자기계발','취미','홈카페']).has(value);}
 function prototypeCatalog(deals,creator){const topics=new Set((Array.isArray(creator?.topics)?creator.topics:[]).filter(x=>typeof x==='string').map(x=>x.trim().toLocaleLowerCase()).filter(x=>x.length>=2&&x.length<=60&&!prototypeSensitiveTopic(x))),groups=new Map();for(const d of Array.isArray(deals)?deals:[]){if(!d||typeof d.id!=='string'||!d.id||typeof d.name!=='string'||!d.name.trim())continue;const product=String(d.productName||d.name).trim();if(!product)continue;const key=JSON.stringify([String(d.brand||''),product]),common=[...new Set((Array.isArray(d.topics)?d.topics:[]).filter(x=>typeof x==='string').map(x=>x.trim()).filter(x=>topics.has(x.toLocaleLowerCase())))],item={id:d.id,name:d.name,product,brand:String(d.brand||''),category:typeof d.category==='string'&&d.category?d.category:'미확인',state:['협의 중','확정'].includes(d.state)?d.state:'미확인',retail:typeof d.retail==='number'&&Number.isFinite(d.retail)&&d.retail>=0?String(d.retail)+'원':'미확인',price:prototypePrice(d),stock:prototypeDealStock(d),options:[...(d.productName&&d.name!==d.productName?[d.name]:[]),...(Array.isArray(d.options)?d.options:[]).map(x=>typeof x?.name==='string'?x.name:'')].filter(Boolean).join(' / ')||'옵션 확인 필요',link:prototypeSafeLink(d.productUrl),reason:common.length?'저장 주제 일치: '+common.join(', '):'주제 일치 근거 없음 · 직접 검토',score:common.length};if(!groups.has(key))groups.set(key,{id:d.id,product,items:[],score:0});const g=groups.get(key);g.items.push(item);g.score=Math.max(g.score,item.score);}return [...groups.values()].map(g=>{const available=g.items.filter(x=>!x.stock.startsWith('품절'));return {...g,available:available.length>0,score:Math.max(0,...available.map(x=>x.score))}}).sort((a,b)=>b.score-a.score||a.product.localeCompare(b.product,'ko'));}
 function prototypeCsv(groups){const header=['상품명','분류','추천 근거','공개 소비자가','확정 공구가 또는 협의 상태','재고 상태','옵션 상태','등록 제품 링크'];const lines=[header,...groups.flatMap(g=>g.items.map(x=>[x.product,x.category,x.reason,x.retail,x.state+' · '+x.price,x.stock,x.options,x.link]))];return '\ufeff'+lines.map(row=>row.map(prototypeCsvCell).join(',')).join('\r\n');}
 function prototypeCurrentThread(){return !!instagramProposalContext&&instagramProposalContext.owner===me&&location.hash==='#inbox'&&instagramProposalContext.threadId===selectedThread&&!!creatorInboxThreads.find(t=>t.id===selectedThread&&t.instagramOfficial&&(t.messages||[]).some(inboundHumanReply));}
 function prototypeValidContext(){if(!prototypeCurrentThread()||!instagramProposalContext.creator)return false;const form=$('#instagram-prototype-creator');if(!form)return false;const fields=new FormData(form);return fields.has('verified')&&fields.get('creator')===instagramProposalContext.creator.id;}
 function prototypeCurrentDraft(){if(!prototypeValidContext()||!instagramProposalContext.draftSelection)return false;const form=$('#instagram-prototype-draft');if(!form)return false;return JSON.stringify(new FormData(form).getAll('product').map(String).sort())===instagramProposalContext.draftSelection;}
 function prototypeOpen(){if(inboxEdited)return toast('편집 내용을 저장하거나 취소한 뒤 초안을 준비하세요.');const thread=creatorInboxThreads.find(t=>t.id===selectedThread&&t.instagramOfficial&&(t.messages||[]).some(inboundHumanReply));if(!thread)return toast('먼저 실제 수신 Instagram 대화를 선택하세요.');const creators=data.candidates.filter(c=>c.kind==='크리에이터');instagramProposalContext={owner:me,threadId:thread.id,creator:null,groups:[]};prototypeDraftDirty=false;modal('<h2>Instagram 상품 제안 초안</h2><p>현재 수신 상대: '+esc(inboxThreadName(thread))+'</p><p>직접 수신한 대화와 저장된 크리에이터가 같은 사람인지 확인해 주세요. 자동으로 대상을 연결하거나 메시지를 보내지 않습니다.</p><form id="instagram-prototype-creator"><label class="field">저장된 크리에이터 선택<select name="creator" required><option value="">직접 선택</option>'+creators.map(c=>'<option value="'+esc(c.id)+'">'+esc(c.name||'이름 미확인')+(c.handle?' · @'+esc(c.handle):'')+'</option>').join('')+'</select></label><label><input type="checkbox" name="verified" required> 이 대화의 상대와 선택한 크리에이터가 동일한지 직접 확인했습니다.</label><button type="submit">상품 검토</button></form>'+(creators.length?'':'<p class="notice">선택할 저장 크리에이터가 없습니다. 확인된 크리에이터를 먼저 등록하세요.</p>')+'<div id="instagram-prototype-result"></div>');}
-function prototypeReview(form){if(!prototypeCurrentThread())throw Error('현재 수신 대화를 다시 확인하세요.');if(prototypeDraftDirty&&!window.confirm('작성 중인 초안을 바꾸고 상품을 다시 검토할까요?'))return;prototypeDraftDirty=false;const fields=new FormData(form);if(!fields.has('verified'))throw Error('대화 상대와 크리에이터가 같은지 직접 확인하세요.');const creator=data.candidates.find(c=>c.id===fields.get('creator')&&c.kind==='크리에이터');if(!creator)throw Error('저장된 크리에이터를 선택하세요.');const groups=prototypeCatalog(data.deals,creator),recommended=groups.filter(g=>g.available&&g.score>0).slice(0,3),ids=new Set(recommended.map(g=>g.id));instagramProposalContext.creator=creator;instagramProposalContext.groups=groups;instagramProposalContext.draftSelection=null;const summary=recommended.length?'저장된 주제가 일치하는 추천 '+recommended.length+'개 · 최대 3개':'일치 근거가 없어 추천을 만들지 않았습니다. 아래 검토 후보를 직접 고르세요.';$('#instagram-prototype-result').innerHTML='<p class="notice">'+esc(summary)+' 저장된 주제만 비교했으며 공개 소개란은 자동 조회하지 않았습니다. 주제 일치는 적합성 보장이 아닙니다. 가격·재고·협업 조건은 확인이 필요합니다.</p><form id="instagram-prototype-draft"><fieldset><legend>메인 상품 선택 · 최대 3개</legend>'+groups.map(g=>{const d=g.items.find(x=>!x.stock.startsWith('품절')&&x.score===g.score)||g.items[0],sold=!g.available;return '<label class="field"><span><input type="checkbox" name="product" value="'+esc(g.id)+'" '+(ids.has(g.id)?'checked ':'')+(sold?'disabled ':'')+'>'+esc(g.product)+'</span><small>'+esc(d.reason)+' · '+esc(g.items.map(x=>x.state+' / '+x.stock).join(' ; '))+'</small></label>'}).join('')+'</fieldset><button type="submit">편집 가능한 초안 만들기</button></form><div id="instagram-prototype-draft-output"></div><details><summary>불러온 상품 목록 미리보기</summary><p>현재 화면에 불러온 저장 상품만 포함하며 일부 상품이 빠질 수 있습니다. 조건은 다시 확인해야 하며 외부 시트는 생성하지 않습니다.</p><div class="table-wrap"><table><thead><tr><th>상품</th><th>분류</th><th>근거</th><th>소비자가</th><th>공구 조건</th><th>재고·옵션</th><th>등록 링크</th></tr></thead><tbody>'+groups.flatMap(g=>g.items.map(x=>'<tr><td>'+esc(x.product)+'</td><td>'+esc(x.category)+'</td><td>'+esc(x.reason)+'</td><td>'+esc(x.retail)+'</td><td>'+esc(x.state+' · '+x.price)+'</td><td>'+esc(x.stock+' · '+x.options)+'</td><td>'+(x.link?'<a href="'+esc(x.link)+'" target="_blank" rel="noopener noreferrer">제품 링크 ↗</a>':'미확인')+'</td></tr>')).join('')+'</tbody></table></div></details><button type="button" data-action="instagram-prototype-csv">불러온 상품 CSV 다운로드</button>';}
+function prototypeReview(form){if(!prototypeCurrentThread())throw Error('현재 수신 대화를 다시 확인하세요.');if(prototypeDraftDirty&&!window.confirm('작성 중인 초안을 바꾸고 상품을 다시 검토할까요?'))return;prototypeDraftDirty=false;const fields=new FormData(form);if(!fields.has('verified'))throw Error('대화 상대와 크리에이터가 같은지 직접 확인하세요.');const creator=data.candidates.find(c=>c.id===fields.get('creator')&&c.kind==='크리에이터');if(!creator)throw Error('저장된 크리에이터를 선택하세요.');const groups=prototypeCatalog(data.deals,creator),recommended=groups.filter(g=>g.available&&g.score>0).slice(0,3),ids=new Set(recommended.map(g=>g.id));instagramProposalContext.creator=creator;instagramProposalContext.groups=groups;instagramProposalContext.draftSelection=null;const summary=recommended.length?'저장된 주제가 일치하는 추천 '+recommended.length+'개 · 최대 3개':'일치 근거가 없어 추천을 만들지 않았습니다. 아래 검토 후보를 직접 고르세요.';$('#instagram-prototype-result').innerHTML='<p class="notice">'+esc(summary)+' 저장된 일반 콘텐츠 주제만 비교했으며 공개 소개란은 자동 조회하지 않았습니다. 주제 일치는 적합성 보장이 아닙니다. 가격·재고·협업 조건은 확인이 필요합니다.</p><form id="instagram-prototype-draft"><fieldset><legend>메인 상품 선택 · 최대 3개</legend>'+groups.map(g=>{const d=g.items.find(x=>!x.stock.startsWith('품절')&&x.score===g.score)||g.items[0],sold=!g.available;return '<label class="field"><span><input type="checkbox" name="product" value="'+esc(g.id)+'" '+(ids.has(g.id)?'checked ':'')+(sold?'disabled ':'')+'>'+esc(g.product)+'</span><small>'+esc(d.reason)+' · '+esc(g.items.map(x=>x.state+' / '+x.stock).join(' ; '))+'</small></label>'}).join('')+'</fieldset><button type="submit">편집 가능한 초안 만들기</button></form><div id="instagram-prototype-draft-output"></div><details><summary>불러온 상품 목록 미리보기</summary><p>현재 화면에 불러온 저장 상품만 포함하며 일부 상품이 빠질 수 있습니다. 조건은 다시 확인해야 하며 외부 시트는 생성하지 않습니다.</p><div class="table-wrap"><table><thead><tr><th>상품</th><th>분류</th><th>근거</th><th>소비자가</th><th>공구 조건</th><th>재고·옵션</th><th>등록 링크</th></tr></thead><tbody>'+groups.flatMap(g=>g.items.map(x=>'<tr><td>'+esc(x.product)+'</td><td>'+esc(x.category)+'</td><td>'+esc(x.reason)+'</td><td>'+esc(x.retail)+'</td><td>'+esc(x.state+' · '+x.price)+'</td><td>'+esc(x.stock+' · '+x.options)+'</td><td>'+(x.link?'<a href="'+esc(x.link)+'" target="_blank" rel="noopener noreferrer">제품 링크 ↗</a>':'미확인')+'</td></tr>')).join('')+'</tbody></table></div></details><button type="button" data-action="instagram-prototype-csv">불러온 상품 CSV 다운로드</button>';}
 function prototypeDraft(form){if(!prototypeValidContext()||!instagramProposalContext.creator)throw Error('대화와 크리에이터를 다시 확인하세요.');if(prototypeDraftDirty&&!window.confirm('작성 중인 초안을 새로 만들까요?'))return;const ids=new FormData(form).getAll('product');if(!ids.length||ids.length>3||new Set(ids).size!==ids.length)throw Error('품절이 아닌 상품을 1~3개 선택하세요.');const groups=ids.map(id=>instagramProposalContext.groups.find(g=>g.id===id&&g.available));if(groups.some(x=>!x))throw Error('선택한 상품 상태를 다시 확인하세요.');prototypeDraftDirty=false;instagramProposalContext.draftSelection=JSON.stringify(ids.map(String).sort());const name=String(instagramProposalContext.creator.name||'크리에이터').trim(),text='안녕하세요, '+name+'님.\n\n공동구매 협업을 제안드리고 싶어 연락드립니다. 우선 아래 상품을 검토해 주시면 좋겠습니다.\n\n'+groups.map(g=>'- '+g.product).join('\n')+'\n\n상품별 진행 가능 여부와 가격·조건은 협의 후 안내드리겠습니다. 다른 상품 목록도 함께 검토하실 수 있도록 정리해 드릴 수 있습니다.\n\n관심 있으시면 편하게 말씀 부탁드립니다.';$('#instagram-prototype-draft-output').innerHTML='<label class="field">직접 수정할 제안 초안<textarea id="instagram-prototype-text" rows="12">'+esc(text)+'</textarea></label><p class="fine">초안은 이 화면에만 있으며 닫으면 사라집니다. 실제 전송은 하지 않았습니다. Instagram 답장 가능 시간과 조건은 별도 확인하세요.</p><button type="button" data-action="instagram-prototype-copy">초안 복사</button>';}
 function instagramReplyConfirmation(peer,body,username){const handle=typeof username==='string'&&/^[A-Za-z0-9._]{1,30}$/.test(username)&&!['.','..'].includes(username)&&username.toLowerCase()!=='valu_est'?'@'+username+' · ':'';return '발신: @valu_est\n수신: '+handle+'Instagram 사용자 ID '+peer+'\n\n보낼 내용:\n'+body+'\n\n이 내용으로 실제 답장을 보내겠습니까?';}
 function instagramReplyMessage(result){if(result.duplicate)return result.sameRequest?'같은 요청이 이미 처리됐습니다. 기존 결과를 확인하세요.':'이 수신 메시지에는 이미 답장 시도가 있어 이번 내용은 전송되지 않았습니다.';return result.status==='accepted'?'Meta에 접수됐습니다. 전달 여부는 확인되지 않았습니다.':'전송 결과 확인 필요 · 다시 보내지 마세요.';}

diff --git a/public/workspace/index.html b/public/workspace/index.html
@@ -34,6 +34,6 @@
       <button class="close" data-action="close" aria-label="닫기">×</button>
     </dialog>
     <div id="toast" role="status"></div>
-    <script src="./app.js?v=29ea4bf60228" defer></script>
+    <script src="./app.js?v=63a298d3c165" defer></script>
   </body>
 </html>
